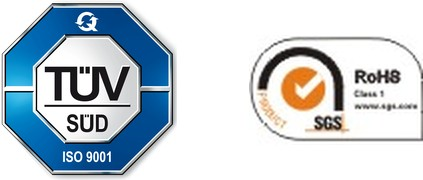
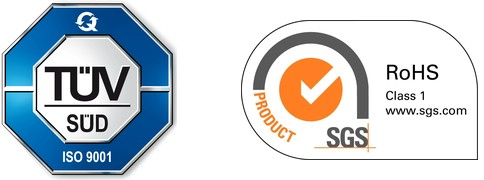
Use a sharp SGS RoHS mark in the certification image
The RoHS half of ISO_RoHS.jpg was the old 55px mark enlarged and looked
soft. Replace it with a high-resolution SGS RoHS Class 1 mark (supplier
watermark removed) and update the image width on the About page.

Claude-Session: https://claude.ai/code/session_01K5Dcjx1ofbQGYE734ENgCu

diff --git a/neonpro/docc/Company.htm b/neonpro/docc/Company.htm
@@ -56,7 +56,7 @@
   <div class="stat"><b>700+</b><span>employees, with offices in the U.S.</span></div>
 </div>
 <div class="cert">
-  <img src="images/ISO_RoHS.jpg" width="211" height="90" alt="TÜV SÜD ISO 9001 and SGS RoHS certification marks">
+  <img src="images/ISO_RoHS.jpg" width="242" height="90" alt="TÜV SÜD ISO 9001 and SGS RoHS certification marks">
   <p>ISO 9001:2015 Certified Manufacturer</p>
 </div>
   </main>
